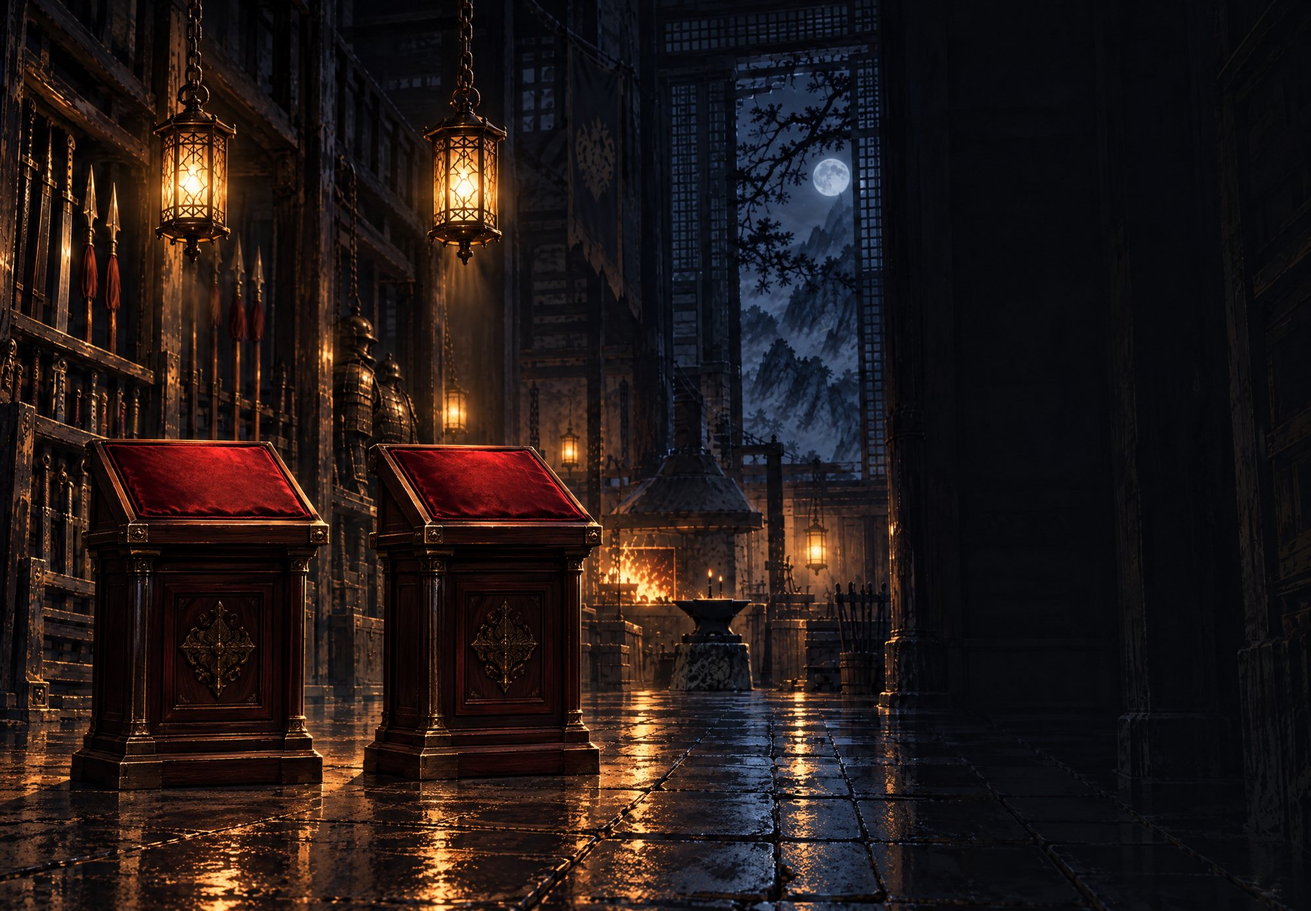
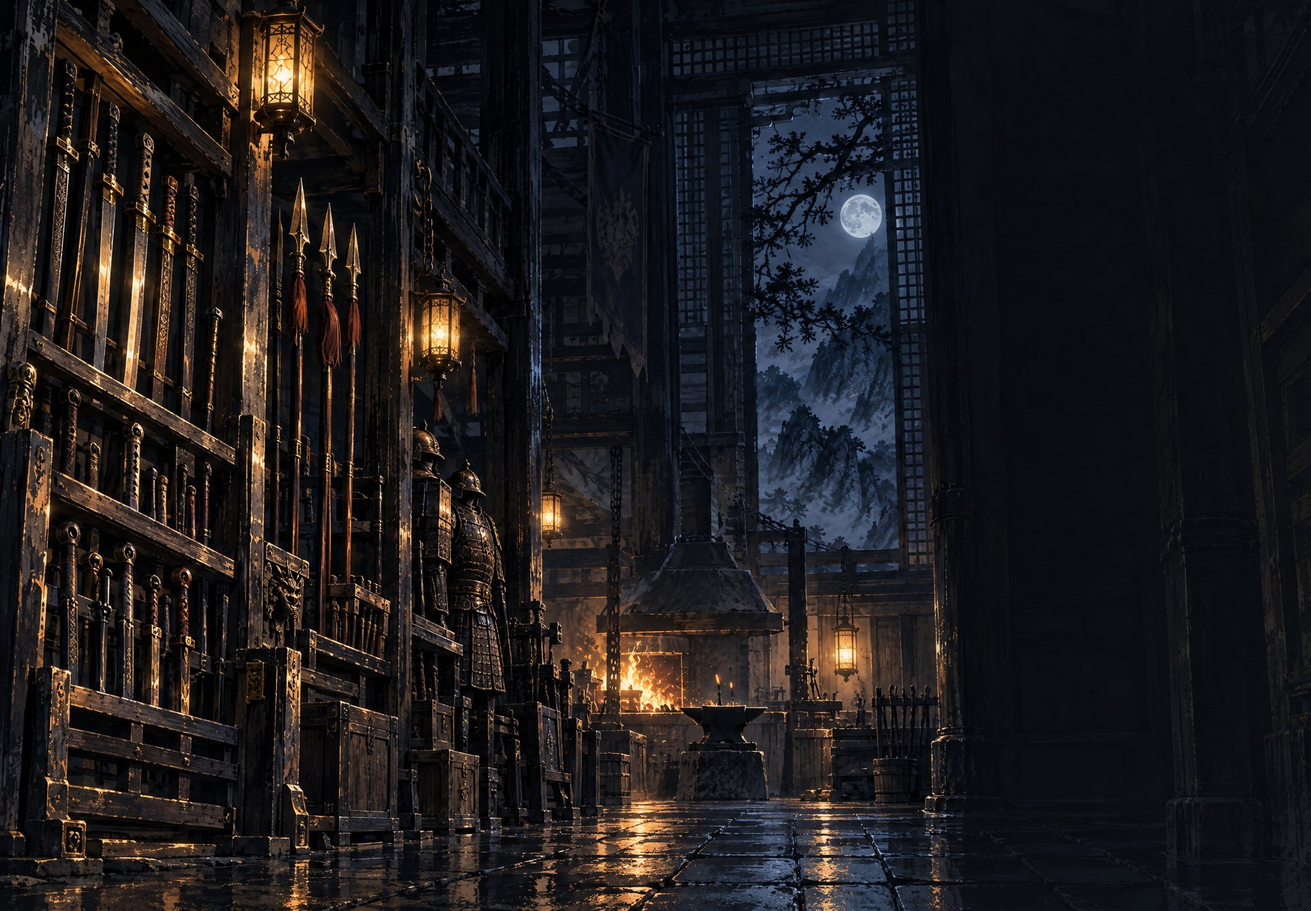
docs(sect-overhaul): 典籍院、天工库退回右侧优化版（左侧不交互）

diff --git a/docs/design/sect-overhaul-prototype.html b/docs/design/sect-overhaul-prototype.html
@@ -198,79 +198,61 @@ button { font: inherit; color: inherit; }
 @keyframes sx-puff { 0% { opacity: 0; transform: translate(0, 0) scale(.5); } 15% { opacity: .8; } 100% { opacity: 0; transform: translate(var(--dx), calc(var(--aw) * -.07)) scale(1.8, 2.4); } }
 
 /* ═══ 典籍院 / 天工库：右侧一列可换之物 + 选中详情 ═══ */
-/* ═══ 典籍院 / 天工库：画中货位（函套书签 / 兵器匣面）可点，右侧只写选中物 ═══ */
-.sx-slot { position: absolute; border: 0; padding: 0; background: none; cursor: default; }
-.sx-slot .lit { position: absolute; inset: 0; opacity: 0; mix-blend-mode: screen; transition: opacity .3s, filter .3s; pointer-events: none; }
-.sx-slot .halo { position: absolute; opacity: 0; pointer-events: none; mix-blend-mode: screen; transition: opacity .3s; }
-.sx-slot .nm { position: absolute; display: flex; flex-direction: column; align-items: center; justify-content: center; gap: .12em; writing-mode: vertical-rl; pointer-events: none;
-  font-family: var(--font-body); font-weight: 700; line-height: 1; letter-spacing: .08em; white-space: nowrap; }
-.sx-slot .nm small { font-size: .62em; letter-spacing: .1em; opacity: .85; }
-.sx-slot.on { cursor: pointer; }
-.sx-slot.on .lit { opacity: .55; } .sx-slot.on .halo { opacity: .35; }
-.sx-slot.on:hover .lit { opacity: .78; } .sx-slot.on:hover .halo { opacity: .6; }
-.sx-slot.sel .lit { opacity: .95; filter: brightness(1.15); } .sx-slot.sel .halo { opacity: 1; }
-.sx-slot.on:focus-visible { outline: 1.5px solid var(--gold); outline-offset: 3px; }
-/* 函套：书签是米色纸，墨字；光只铺在纸签上，柔光晕在整只函套 */
-.sx-slot.book.on .lit { opacity: .85; } .sx-slot.book.on:hover .lit { opacity: .95; } .sx-slot.book.sel .lit { opacity: 1; }
-.sx-slot.book .lit { background: radial-gradient(ellipse 85% 70% at 50% 45%, oklch(0.62 0.09 75 / .8), oklch(0.45 0.07 65 / .55)); }
-.sx-slot.book .halo { inset: -22% -70%; background: radial-gradient(ellipse 50% 50% at 50% 50%, oklch(0.72 0.12 72 / .3), transparent 70%); }
-.sx-slot.book .nm { inset: 4% 0; color: oklch(0.2 0.03 50); text-shadow: 0 0 5px oklch(0.88 0.06 80 / .5); }
-/* 品质色（gongfa.css .qg1–.qg3）；书签上用同色相加深，保证在米色纸签上 ≥4.5:1 */
-.q1 { --qc: oklch(0.72 0.015 85); --qd: oklch(0.24 0.015 85); }
-.q2 { --qc: oklch(0.78 0.09 212); --qd: oklch(0.27 0.07 225); }
-.q3 { --qc: var(--gold); --qd: oklch(0.30 0.09 55); }
-.sx-slot.book .nm { font-family: var(--font-display); font-weight: 400; color: var(--qd); text-shadow: 0 0 4px oklch(0.9 0.04 85 / .55); }
-/* 函套着色：SVG 按函套透视轮廓挖掉纸签，color 混合让画里函套本身变色 */
-.sx-tint { position: absolute; inset: 0; width: 100%; height: 100%; pointer-events: none; mix-blend-mode: color; opacity: .72; }
-.sx-trim { position: absolute; inset: 0; width: 100%; height: 100%; pointer-events: none; mix-blend-mode: screen; }
-/* 天工库：陈列台 + 丝绒垫上的装备道具图 */
-.sx-stand { position: absolute; border: 0; padding: 0; background: none; cursor: default; }
-.sx-stand.on { cursor: pointer; }
-.sx-stand.on:focus-visible { outline: 1.5px solid var(--gold); outline-offset: 3px; }
-.sx-stand.off { pointer-events: none; }
-.sx-padglow { position: absolute; transform: translate(-50%, -50%); pointer-events: none; mix-blend-mode: screen; opacity: 0; transition: opacity .3s; border-radius: 50%;
-  background: radial-gradient(ellipse 50% 50% at 50% 45%, oklch(0.72 0.13 60 / .45), transparent 70%); }
-.sx-padglow.on { opacity: .45; } .sx-padglow.hov { opacity: .75; } .sx-padglow.sel { opacity: 1; }
-.sx-standdim { position: absolute; pointer-events: none; background: radial-gradient(ellipse 60% 55% at 50% 45%, oklch(0.06 0.01 262 / .62), oklch(0.06 0.01 262 / .35) 75%, transparent); }
-/* 物件：外层在屏幕坐标里投影（接触阴影 + 顶上吊灯的暖色边光），内层顺着斜垫旋转压扁 */
-.sx-ware { position: absolute; transform: translate(-50%, -50%); pointer-events: none;
-  filter: drop-shadow(0 calc(var(--aw) * -.0012) calc(var(--aw) * .0006) oklch(0.85 0.12 70 / .55)) drop-shadow(0 calc(var(--aw) * .004) calc(var(--aw) * .003) oklch(0.05 0.02 30 / .8)); }
-.sx-ware img { display: block; width: 100%; height: 100%; object-fit: contain; transform: scaleY(var(--sy)) rotate(var(--rot)) skewY(-4deg);
-  filter: brightness(.95) sepia(.18) saturate(1.05) contrast(1.08); }
-.sx-ware .cs { position: absolute; left: 50%; top: 58%; width: 112%; height: 26%; transform: translate(-50%, -50%) rotate(-5deg); border-radius: 50%;
-  background: radial-gradient(ellipse, oklch(0.08 0.03 25 / .7), transparent 70%); z-index: -1; }
-.sx-plate { position: absolute; transform: translate(-50%, -50%); pointer-events: none; white-space: nowrap; font-family: var(--font-display); font-weight: 700;
-  letter-spacing: .3em; padding-left: .3em; text-shadow: 0 0 6px #000, 0 0 2px #000; }
-.sx-stand-seal { position: absolute; transform: translate(-50%, -50%) rotate(-6deg); pointer-events: none; writing-mode: vertical-rl; font-family: var(--font-display); font-weight: 700;
-  line-height: 1.05; padding: .18em .1em; border-radius: 2px; color: oklch(0.95 0.02 85); background: oklch(0.5 0.17 28 / .9); }
-.sx-stand-seal.pop { animation: sx-stamp2 .55s var(--ease); }
-@keyframes sx-stamp2 { 0% { opacity: 0; transform: translate(-50%, -50%) rotate(-6deg) scale(2.2); } }
-/* 已得：画中落一枚小朱印 */
-.sx-seal { position: absolute; left: 50%; bottom: 3%; transform: translateX(-50%) rotate(-6deg); writing-mode: vertical-rl; pointer-events: none;
-  font-family: var(--font-display); font-weight: 700; line-height: 1.05; letter-spacing: 0; padding: .18em .1em; border-radius: 2px;
-  color: oklch(0.95 0.02 85); background: oklch(0.5 0.17 28 / .9); box-shadow: 0 0 0 1px oklch(0.5 0.17 28 / .5); }
-.sx-slot.own .nm { opacity: .78; }
-.sx-slot.book.own .nm { bottom: 26%; opacity: 1; }
-.sx-seal.pop { animation: sx-stamp .55s var(--ease); }
-@keyframes sx-stamp { 0% { opacity: 0; transform: translateX(-50%) rotate(-6deg) scale(2.2); } 100% { opacity: 1; transform: translateX(-50%) rotate(-6deg) scale(1); } }
-/* 右侧卷宗：细暗金线分节 */
-.sx-rule { height: 1px; margin: 18px 0; background: linear-gradient(to right, oklch(0.75 0.075 76 / .45), oklch(0.75 0.075 76 / .22) 70%, transparent); }
-.sx-attrs { display: grid; grid-template-columns: 1fr 1fr; column-gap: 22px; row-gap: 12px; margin: 0; }
-.sx-attrs .a { display: flex; align-items: baseline; gap: 10px; }
+.sx-list { display: grid; }
+.sx-row { display: flex; align-items: center; gap: 14px; border: 0; background: none; cursor: pointer; padding: 8px 6px 8px 4px; position: relative; text-align: left; color: var(--ink); text-shadow: inherit; opacity: .6; transition: opacity .2s; }
+.sx-row::after { content: ''; position: absolute; left: -4px; right: 0; bottom: 0; height: 3px; background: oklch(0.6 0.02 85 / .22); -webkit-mask: var(--BRUSH) center / 100% 100%; mask: var(--BRUSH) center / 100% 100%; }
+.sx-row svg { width: 26px; height: 26px; flex: none; fill: none; stroke: var(--ink-gold); stroke-width: 1.3; stroke-linecap: round; stroke-linejoin: round; opacity: .8; }
+.sx-row .rn { font-family: var(--font-display); font-size: 17px; letter-spacing: .14em; white-space: nowrap; }
+.sx-row .rp { margin-left: auto; font-size: 12px; letter-spacing: .14em; color: var(--faint); white-space: nowrap; }
+.sx-row .rp b { font-size: 17px; font-weight: 600; letter-spacing: 0; color: var(--ink-gold); margin-right: 4px; }
+.sx-row .rp.own { font-size: 14px; letter-spacing: .3em; color: var(--faint); }
+.sx-row:hover { opacity: .85; }
+.sx-row.on { opacity: 1; background: linear-gradient(to right, oklch(0.78 0.13 78 / .16), oklch(0.78 0.13 78 / .05) 55%, transparent 90%); }
+.sx-row.on svg { opacity: 1; stroke: var(--gold); filter: drop-shadow(0 0 4px oklch(0.78 0.13 78 / .5)); }
+.sx-row.fresh { animation: sx-fresh 1.4s var(--ease); }
+@keyframes sx-fresh { 0% { background: oklch(0.78 0.13 78 / .18); } 100% { background: transparent; } }
+.sx-row:focus-visible { outline: 1.5px solid var(--gold); outline-offset: 2px; }
+.sx-price { display: inline-flex; align-items: baseline; gap: 6px; margin-top: 18px; position: relative; }
+.sx-price b { font-size: 30px; font-weight: 600; color: var(--gold); }
+.sx-price span { font-size: 15px; letter-spacing: .2em; color: var(--muted); }
+.sx-price.short b { color: var(--short); }
+.sx-price.own b { font-size: 20px; letter-spacing: .4em; color: var(--muted); font-weight: 600; }
+/* 列表与详情之间：── ◆ ── */
+.sx-orn { display: flex; align-items: center; gap: 10px; margin: 18px 0 18px; }
+.sx-orn::before, .sx-orn::after { content: ''; flex: 1; height: 1px; }
+.sx-orn::before { background: linear-gradient(to right, transparent, oklch(0.75 0.075 76 / .5)); }
+.sx-orn::after { background: linear-gradient(to left, transparent, oklch(0.75 0.075 76 / .5)); }
+.sx-orn i { width: 7px; height: 7px; transform: rotate(45deg); border: 1px solid oklch(0.75 0.075 76 / .75); position: relative; }
+.sx-orn i::after { content: ''; position: absolute; inset: 1.5px; background: oklch(0.75 0.075 76 / .7); }
+.sx-orn b { width: 3px; height: 3px; transform: rotate(45deg); background: oklch(0.75 0.075 76 / .5); }
+/* 详情卡 */
+.sx-card .nmrow { display: flex; align-items: baseline; gap: 12px; }
+.sx-card h2 { margin: 0; font-family: var(--font-display); font-size: 32px; font-weight: 700; letter-spacing: .16em; line-height: 1.2; white-space: nowrap; }
+.sx-card .gtag { margin-left: auto; flex: none; font-size: 13px; letter-spacing: .14em; color: var(--ink-gold); white-space: nowrap; }
+.sx-chop { display: inline-block; margin-left: 8px; font-family: var(--font-display); font-size: 11px; letter-spacing: .1em; color: oklch(0.95 0.02 85); background: var(--seal-red);
+  padding: 1px 4px; border-radius: 2px; transform: rotate(-4deg) translateY(-2px); text-shadow: none; cursor: help; }
+.sx-attrs { display: grid; grid-template-columns: 1fr 1fr; column-gap: 22px; margin: 14px 0 0; }
+.sx-attrs .a { display: flex; align-items: baseline; gap: 10px; padding: 8px 2px 7px; position: relative; }
+.sx-attrs .a::after { content: ''; position: absolute; left: -4px; right: 0; bottom: 0; height: 3px; background: oklch(0.6 0.02 85 / .26); -webkit-mask: var(--BRUSH) center / 100% 100%; mask: var(--BRUSH) center / 100% 100%; }
 .sx-attrs .a.wide { grid-column: 1 / -1; }
 .sx-attrs dt { font-size: 14px; letter-spacing: .08em; color: var(--faint); white-space: nowrap; }
 .sx-attrs dd { margin: 0; font-size: 18px; font-weight: 600; color: var(--ink); white-space: nowrap; }
 .sx-attrs .a.wide dd { font-size: 16px; }
 .sx-attrs dd[data-tip] { cursor: help; }
 .sx-attrs dd[data-tip]:hover { color: var(--gold); }
-.sx-chop { display: inline-block; font-family: var(--font-display); font-size: 13px; font-weight: 700; letter-spacing: .1em; color: oklch(0.95 0.02 85); background: var(--seal-red);
-  padding: 2px 5px; border-radius: 2px; transform: rotate(-4deg); text-shadow: none; }
-.sx-cost { display: flex; align-items: baseline; gap: 8px; font-size: 15px; letter-spacing: .2em; color: var(--muted); position: relative; }
-.sx-cost b { font-size: 26px; font-weight: 600; letter-spacing: 0; color: var(--gold); }
-.sx-cost.short b { color: var(--short); cursor: help; }
-.sx-cost.own { color: var(--muted); letter-spacing: .5em; font-family: var(--font-display); font-size: 18px; }
 .sx-card .scroll-btn { margin-top: 20px; }
-.sx-own-gap { height: 92px; }
+.sx-own { display: block; width: max-content; margin: 22px auto 0; padding: 7px 16px 7px 22px; font-family: var(--font-display); font-size: 18px; font-weight: 700; letter-spacing: .5em;
+  color: var(--cinnabar); border: 1.5px solid oklch(0.66 0.14 32 / .7); border-radius: 3px; transform: rotate(-4deg); text-shadow: none; opacity: .85; }
+.sx-own-gap { height: 74px; display: flex; align-items: center; }
+/* 货多（地位高）时收紧行距，按钮不压到底边 */
+.sx-insc.dense .sx-row { padding: 4px 6px 4px 4px; }
+.sx-insc.dense .sx-row svg { width: 22px; height: 22px; }
+.sx-insc.dense .sx-orn { margin: 12px 0 12px; }
+.sx-insc.dense .sx-card h2 { font-size: 28px; }
+.sx-insc.dense .sx-desc { margin-top: 8px; line-height: 1.7; }
+.sx-insc.dense .sx-attrs { margin-top: 8px; }
+.sx-insc.dense .sx-attrs .a { padding: 5px 2px 4px; }
+.sx-insc.dense .scroll-btn { margin-top: 14px; height: 62px; }
 
 /* 操作反馈：浮在对象旁 */
 .sx-float { position: absolute; transform: translate(-50%, -50%); pointer-events: none; white-space: nowrap; z-index: 8; font-family: var(--font-display); font-size: 20px; font-weight: 700; letter-spacing: .2em;
@@ -347,10 +329,9 @@ button { font: inherit; color: inherit; }
   </section>
 
   <!-- 典籍院 / 天工库（同一格局，换底图与货） -->
-  <section class="sx-view" id="vShop" data-img="hall-dianji.jpg" data-over="1" data-anchor="0" data-dark=".73" data-vy=".6" data-tmin="252">
+  <section class="sx-view" id="vShop" data-img="hall-dianji.jpg" data-over="1.18" data-anchor="1" data-dark=".73">
     <div class="sx-art">
       <div class="sx-pic"><div class="img"></div><div class="tone"></div><div class="vig"></div></div>
-      <div id="slots"></div>
     </div>
     <div class="sx-shade"><div class="sx-paper"></div></div>
     <header class="sx-head">
@@ -390,47 +371,28 @@ const GATES = [
    装备 = engine/gear.ts rollBase：兵器重型 攻击 = 0.036 × 100 × 1.7^(当量−1) × GRADE_BASE × 1.08（浮动取中值 1.0）；词条取区间中值 × GRADE_AFFIX
    价格是占位 */
 const GRADE_COLOR = { 上乘: 'oklch(0.78 0.09 215)', 极品: 'oklch(0.72 0.16 50)' };
-const NG_TIP = { qi: '真气上限倍率', hh: '每重火候折合境界的倍率' };
-const ROUTE_TIP = { 狂澜: '快剑爆发 · 短战最强', 惊鸿: '身法奇快 · 一招多击' };
-/* 货位坐标（占画幅 %）
-   典籍院：s = 书签纸面 [左, 上, 宽, 高]，书名写在这里
-   天工库：s = 匣面 [左, 上, 宽, 高]（点选范围），n = 名字区 [上, 高]（匣面中上部、门环之上），t = 匣下小木牌 [左, 上, 宽, 高] */
 const SHOPS = {
-  dianji: { title: '典籍院', img: 'hall-dianji.jpg', kind: 'book', slots: [
-    // s = 书签纸面 [左, 上, 宽, 高]（%）；f = 函套正面含书脊的四角（原图像素，左上→右上→右下→左下）
-    { s: [6.65, 15.7, 3.45, 15.7], f: [[62, 182], [225, 198], [222, 560], [60, 553]] },
-    { s: [15.25, 17.8, 3.05, 15.25], f: [[240, 210], [385, 225], [385, 575], [240, 566]] },
-    { s: [23.05, 19.6, 2.9, 15.1], f: [[402, 242], [540, 255], [540, 590], [402, 585]] },
-    { s: [30.55, 21.6, 2.7, 14.4], f: [[558, 268], [685, 282], [685, 618], [558, 610]] },
-    { s: [6.25, 49.1, 3.6, 16.0], f: [[55, 650], [218, 662], [215, 1025], [55, 1015]] },
-    { s: [14.95, 50.4, 3.2, 15.8], f: [[235, 665], [383, 675], [383, 1035], [235, 1025]] },
-    { s: [22.95, 51.6, 2.95, 16.0], f: [[400, 685], [540, 695], [540, 1045], [400, 1040]] },
-    { s: [30.55, 53.0, 2.8, 15.5], f: [[558, 705], [685, 715], [685, 1055], [558, 1050]] } ],
-    items: [
-    { q: 1, n: '疾雨剑法', g: '寻常 · 剑法', p: 300, lv: 1, desc: '檐声急雨，剑影疏灯。',
+  dianji: { title: '典籍院', img: 'hall-dianji.jpg', items: [
+    { n: '疾雨剑法', g: '寻常 · 剑法', ic: 'sword', p: 300, lv: 1, desc: '檐声急雨，剑影疏灯。',
       at: [['伤害倍率', '×148%'], ['触发几率', '12%'], ['真气消耗', '190'], ['附加特效', '连击', '第一式 44% 追加一次普攻']] },
-    { q: 1, n: '百川诀', g: '入门 · 内功', ng: true, p: 0, lv: 1, desc: '纳百川入丹田，涓滴汇海，久久自成气象。', route: '狂澜',
-      at: [['气海', '×1.0', NG_TIP.qi], ['火候', '×1.00', NG_TIP.hh]] },
-    { q: 2, n: '惊鸿照影剑', sub: '残页', g: '上乘 · 剑法残页', p: 600, lv: 2, desc: '惊鸿曾照影，剑过不留痕。',
+    { n: '百川诀', g: '入门 · 内功', ic: 'book', p: 0, lv: 1, desc: '纳百川入丹田，涓滴汇海，久久自成气象。',
+      at: [['气海', '×1.0', '真气上限倍率'], ['火候', '×1.00', '每重折合境界的倍率'], ['会心率', '+10%', '狂澜一路'], ['会心伤害', '+20%', '狂澜一路']] },
+    { n: '惊鸿照影剑 · 残页', t: '惊鸿照影剑', g: '上乘 · 剑法残页', ic: 'leaf', p: 600, lv: 2, desc: '惊鸿曾照影，剑过不留痕。',
       at: [['伤害倍率', '×190%'], ['触发几率', '9%'], ['真气消耗', '400'], ['附加特效', '回气', '第一式返还耗气 50%']] },
-    { q: 2, n: '沧海功', g: '进阶 · 内功', p: 1800, lv: 3, ng: true, desc: '气如沧海潮生，一呼一吸之间，有吞吐浪涛之势。', route: '狂澜',
-      at: [['气海', '×1.1', NG_TIP.qi], ['火候', '×1.02', NG_TIP.hh]] },
-    { q: 2, n: '飞泉诀', g: '进阶 · 内功', p: 1800, lv: 3, ng: true, desc: '借山间飞泉之意，气走如瀑，一落未尽，一落又起。', route: '惊鸿',
-      at: [['气海', '×1.1', NG_TIP.qi], ['火候', '×1.02', NG_TIP.hh]] },
-    { q: 3, n: '苍崖九叠剑', sub: '残页', g: '绝学 · 剑法残页', p: 2400, lv: 4, desc: '苍崖云九叠，孤剑雪千秋。',
+    { n: '沧海功', g: '进阶 · 内功', ic: 'book', p: 1800, lv: 3, desc: '气如沧海潮生，一呼一吸之间，有吞吐浪涛之势。',
+      at: [['气海', '×1.1', '真气上限倍率'], ['火候', '×1.02', '每重折合境界的倍率'], ['会心率', '+10%', '狂澜一路'], ['会心伤害', '+20%', '狂澜一路']] },
+    { n: '飞泉诀', g: '进阶 · 内功', chop: '惊鸿', ic: 'book', p: 1800, lv: 3, desc: '借山间飞泉之意，气走如瀑，一落未尽，一落又起。',
+      at: [['气海', '×1.1', '真气上限倍率'], ['火候', '×1.02', '每重折合境界的倍率'], ['追加几率', '30%', '每次出手后追加一击'], ['追加倍率', '65%', '追加一击的伤害']] },
+    { n: '苍崖九叠剑 · 残页', t: '苍崖九叠剑', g: '绝学 · 剑法残页', ic: 'leaf', p: 2400, lv: 4, desc: '苍崖云九叠，孤剑雪千秋。',
       at: [['伤害倍率', '×236%'], ['触发几率', '3%'], ['真气消耗', '550'], ['附加特效', '必暴', '第一式必定会心 · 会心伤害 +5%']] },
-    { q: 3, n: '落星沉海剑', sub: '残页', g: '绝学 · 剑法残页', p: 2400, lv: 4, desc: '星垂沧海夜，剑落暮潮寒。',
+    { n: '落星沉海剑 · 残页', t: '落星沉海剑', g: '绝学 · 剑法残页', ic: 'leaf', p: 2400, lv: 4, desc: '星垂沧海夜，剑落暮潮寒。',
       at: [['伤害倍率', '×236%'], ['触发几率', '5%'], ['真气消耗', '550'], ['附加特效', '蓄势', '本场每出过一招，本式倍率 +10%']] },
-    { q: 3, n: '沧溟真经', g: '镇派 · 内功', p: 6000, lv: 5, ng: true, desc: '苍崖历代掌门心血所凝，修到深处，内息如沧溟无底。', route: '狂澜',
-      at: [['气海', '×1.2', NG_TIP.qi], ['火候', '×1.04', NG_TIP.hh]] } ] },
-  tiangong: { title: '天工库', img: 'hall-tiangong.jpg', kind: 'stand', slots: [
-    // pad = 丝绒垫中心 [x, y]（%）、len = 物件长（占画幅宽）；st = 整座陈列台（点选范围）；nm = 台前名牌；sl = 已得朱印
-    { pad: [15.4, 52.4], len: 14, st: [5.5, 48.2, 19.5, 38.2], nm: [15.9, 62.0], sl: [16.5, 71.2] },
-    { pad: [36.6, 52.8], len: 14, st: [27.75, 48.5, 18, 37.3], nm: [37.0, 62.0], sl: [38.5, 70.9] } ],
-    items: [
-    { n: '松纹剑', g: '兵器 · 剑', grade: '上乘', img: 'jian-qingfeng.png', p: 900, lv: 2, desc: '采苍崖后山寒铁所铸，剑身隐有古松纹理。',
+    { n: '沧溟真经', g: '镇派 · 内功', ic: 'book', p: 6000, lv: 5, desc: '苍崖历代掌门心血所凝，修到深处，内息如沧溟无底。',
+      at: [['气海', '×1.2', '真气上限倍率'], ['火候', '×1.04', '每重折合境界的倍率'], ['会心率', '+10%', '狂澜一路'], ['会心伤害', '+20%', '狂澜一路']] } ] },
+  tiangong: { title: '天工库', img: 'hall-tiangong.jpg', items: [
+    { n: '松纹剑', g: '兵器 · 剑', grade: '上乘', ic: 'blade', p: 900, lv: 2, desc: '采苍崖后山寒铁所铸，剑身隐有古松纹理。',
       at: [['攻击', '17'], ['品阶', '上乘'], ['词条', '攻击 +2% · 会心率 +1%', null, true]] },
-    { n: '听涛剑', g: '兵器 · 剑', grade: '极品', img: 'jian-longquan.png', p: 4800, lv: 5, desc: '剑成之日置于崖顶七夜，挥动时隐有松涛之声。',
+    { n: '听涛剑', g: '兵器 · 剑', grade: '极品', ic: 'blade', p: 4800, lv: 5, desc: '剑成之日置于崖顶七夜，挥动时隐有松涛之声。',
       at: [['攻击', '76'], ['品阶', '极品'], ['词条', '攻击 +2% · 会心伤害 +2%', null, true]] } ] },
 };
 const LORE = {
@@ -442,6 +404,12 @@ const LORE = {
   赴论剑会: '江湖诸派齐聚论剑，代本门登台，胜负关乎苍崖声名。',
 };
 const PAPER = '剑者心之器也藏锋于鞘不露其芒苍崖之上云起九叠孤松立雪寒泉漱石门中弟子晨起洒扫暮而习剑寒暑不辍凡入门者先修其心后习其技心正则剑正心乱则剑乱古之剑客重诺轻生一言既出千金不易';
+const ICON = {
+  sword: '<svg viewBox="0 0 26 26"><path d="M21.5 4.5 9 17"/><path d="M21.5 4.5 20 9.5 10.5 19 7 15.5 16.5 6Z"/><path d="M6 14.5 11.5 20M8 18l-3.5 3.5"/></svg>',
+  blade: '<svg viewBox="0 0 26 26"><path d="M13 2.5v15"/><path d="M11 4.5 13 2.5l2 2v13h-4Z"/><path d="M8.5 17.5h9M13 17.5v5.5"/><circle cx="13" cy="23.5" r=".8"/></svg>',
+  book: '<svg viewBox="0 0 26 26"><path d="M6 4.5h12.5v17H6Z"/><path d="M8.5 4.5v17"/><path d="M11.5 8h4.5v6.5h-4.5Z"/><path d="M6 8H4.8M6 13H4.8M6 18H4.8"/></svg>',
+  leaf: '<svg viewBox="0 0 26 26"><path d="M7 4.5h9.5l3 3V21H7Z"/><path d="M16.5 4.5v3h3"/><path d="M10 10.5h6M10 13.5h6M10 16.5h3.5"/><path d="M19.5 15.5 17 18l2.5 1.5"/></svg>',
+};
 
 let S = { rank: 3, bal: 860, rich: false, view: 'map', shop: 'dianji', sel: 3, dur: 2, run: null, pick: {}, owned: new Set(['百川诀']), seen: new Set(['hall', 'dianji', 'tiangong']), fresh: new Set() };
 const RUN_MOCK = () => ({ tier: 3, dur: 2, start: Date.now() - 37 * 60e3 });
@@ -456,13 +424,13 @@ function place() {
   document.querySelectorAll('.sx-view').forEach(v => {
     const over = +v.dataset.over, anc = +v.dataset.anchor;
     const aw = Math.max(W, Math.min(W * over, H * R)), ah = aw / R;
-    const ax = (W - aw) * anc, ay = ah > H ? (H - ah) * 0.45 : (H - ah) * (+v.dataset.vy || 0);
+    const ax = (W - aw) * anc, ay = ah > H ? (H - ah) * 0.45 : 0;
     const a = v.querySelector('.sx-art');
     a.style.setProperty('--aw', `${aw}px`); a.style.setProperty('--ah', `${ah}px`);
     a.style.setProperty('--ax', `${ax}px`); a.style.setProperty('--ay', `${ay}px`);
     // 题跋落在画右侧约 35% 的暗区；暗区窄时题跋收窄，压暗层跟着加宽
     const darkL = ax + aw * (+v.dataset.dark || 0.68);
-    const tw = Math.max(+v.dataset.tmin || 272, Math.min(330, W - 40 - darkL));
+    const tw = Math.max(272, Math.min(330, W - 40 - darkL));
     v.style.setProperty('--tw', `${tw}px`);
     v.style.setProperty('--sw', `${Math.min(62, (tw + 150) / W * 100)}%`);
     v.style.setProperty('--ty', `${Math.max(96, Math.min(H * 0.15, 150))}px`);
@@ -553,85 +521,39 @@ function floatTab(lv, text, cls = '') {
 }
 
 /* ───────── 典籍院 / 天工库 ───────── */
-/* 典籍院：函套着色（武学麻布灰褐 / 绛紫 / 朱红描金，内功蓝 / 青 / 金，取自 gongfa.css 书封与 book-q1–q3.png 实测色）+ 书签竖写书名 */
-const BOOK_TINT = { wx1: 'rgb(118 96 70)', wx2: 'rgb(112 62 128)', wx3: 'rgb(196 70 38)', ng1: 'rgb(52 82 128)', ng2: 'rgb(70 136 128)', ng3: 'rgb(176 128 48)' };
-function drawBooks(sh, pick, owned) {
-  let tint = '', trim = '', html = '';
-  sh.slots.forEach((sl, i) => {
-    const it = sh.items[i], on = it && it.lv <= S.rank, [l, t, w, h] = sl.s;
-    if (on) {
-      const pts = sl.f.map(([x, y]) => `${x},${y}`).join(' L');
-      const sx = l * 20, sy = t * 13.9, sw = w * 20, shh = h * 13.9;
-      // 外框四角 + 反向的纸签矩形，evenodd 挖空纸签，题签保持米黄
-      tint += `<path fill-rule="evenodd" fill="${BOOK_TINT[(it.ng ? 'ng' : 'wx') + it.q]}" d="M${pts} Z M${sx},${sy} L${sx},${sy + shh} L${sx + sw},${sy + shh} L${sx + sw},${sy} Z"/>`;
-      if (!it.ng && it.q === 3) trim += `<path fill="none" stroke="rgb(150 110 40)" stroke-width="3" d="M${pts} Z"/><rect x="${sx - 4}" y="${sy - 4}" width="${sw + 8}" height="${shh + 8}" fill="none" stroke="rgb(170 125 45)" stroke-width="2"/>`;
-    }
-    const sel = on && it.n === pick, own = on && owned(it);
-    const chars = on ? it.n.length : 3;
-    const fs = `min(calc(var(--aw) * ${(w / 100 / (it && it.sub ? 1.75 : 1.6)).toFixed(4)}), calc(var(--ah) * ${(h / 100 / (chars + (it && it.sub ? 0.6 : 0.8))).toFixed(4)}))`;
-    const nm = on ? `<span class="nm" style="font-size:${fs}">${it.n}${it.sub ? `<small>${it.sub}</small>` : ''}</span>` : '';
-    const seal = own ? `<span class="sx-seal${S.fresh.has(it.n) ? ' pop' : ''}" style="font-size:calc(var(--aw) * ${(w / 100 * .36).toFixed(4)})">已得</span>` : '';
-    html += `<button class="sx-slot book${on ? ` on q${it.q}` : ''}${sel ? ' sel' : ''}${own ? ' own' : ''}" ${on ? `data-n="${it.n}"` : 'tabindex="-1" aria-hidden="true"'}
-      style="left:${l}%;top:${t}%;width:${w}%;height:${h}%"><span class="halo"></span><span class="lit"></span>${nm}${seal}</button>`;
-  });
-  return `<svg class="sx-tint" viewBox="0 0 2000 1390" preserveAspectRatio="none">${tint}</svg>`
-    + `<svg class="sx-trim" viewBox="0 0 2000 1390" preserveAspectRatio="none" style="opacity:.55">${trim}</svg>` + html;
-}
-/* 天工库：两座陈列台，装备道具图（code/public/art/gear）顺着斜垫摆放 */
-const GEAR_ART = '../../code/public/art/gear/';
-function drawStands(sh, pick, owned) {
-  return sh.slots.map((sl, i) => {
-    const it = sh.items[i], on = it && it.lv <= S.rank, sel = on && it.n === pick, own = on && owned(it);
-    const [l, t, w, h] = sl.st, [px, py] = sl.pad;
-    const glow = `<span class="sx-padglow${on ? ' on' : ''}${sel ? ' sel' : ''}" ${on ? `data-for="${it.n}"` : ''} style="left:${px}%;top:${py}%;width:${sl.len * 1.6}%;height:${sl.len * 1.1 * R}%"></span>`;
-    if (!on) return `<span class="sx-standdim" style="left:${l}%;top:${t - 3}%;width:${w}%;height:${h + 3}%"></span>`;
-    // 道具图 199×320 竖放，剑尖朝上；旋转 72° 横躺、纵向压扁 0.55 贴合斜垫透视
-    const ware = `<span class="sx-ware" style="left:${px}%;top:${py}%;width:${(sl.len * 199 / 320).toFixed(2)}%;height:${(sl.len * R).toFixed(2)}%;--rot:74deg;--sy:.62"><i class="cs"></i><img src="${GEAR_ART}${it.img}" alt=""></span>`;
-    const plate = `<span class="sx-plate" style="left:${sl.nm[0]}%;top:${sl.nm[1]}%;font-size:calc(var(--aw) * .0135);color:${GRADE_COLOR[it.grade]}">${it.n}</span>`;
-    const seal = own ? `<span class="sx-stand-seal${S.fresh.has(it.n) ? ' pop' : ''}" style="left:${sl.sl[0]}%;top:${sl.sl[1]}%;font-size:calc(var(--aw) * .011)">已得</span>` : '';
-    return glow + ware + plate + seal + `<button class="sx-stand on${sel ? ' sel' : ''}" data-n="${it.n}" aria-label="${it.n}" style="left:${l}%;top:${t}%;width:${w}%;height:${h}%"></button>`;
-  }).join('');
-}
-
 function drawShop() {
-  const sh = SHOPS[S.shop], k = sh.kind;
+  const sh = SHOPS[S.shop], items = sh.items.filter(it => it.lv <= S.rank);
   const owned = it => S.owned.has(it.n);
-  const open = sh.items.filter(it => it.lv <= S.rank);
   let pick = S.pick[S.shop];
-  if (!open.find(it => it.n === pick)) pick = (open.find(it => !owned(it)) || open[0]).n;
+  if (!items.find(it => it.n === pick)) pick = (items.find(it => !owned(it)) || items[0]).n;
   S.pick[S.shop] = pick;
-  // 画中货位：按货架顺序装条目，未解锁 / 空位留白不亮
-  $('slots').innerHTML = k === 'book' ? drawBooks(sh, pick, owned) : drawStands(sh, pick, owned);
-  $('slots').querySelectorAll('[data-n]').forEach(b => {
-    b.onclick = () => { S.pick[S.shop] = b.dataset.n; drawShop(); };
-    const g = $('slots').querySelector(`.sx-padglow[data-for="${b.dataset.n}"]`);
-    if (g) { b.onmouseenter = () => g.classList.add('hov'); b.onmouseleave = () => g.classList.remove('hov'); }
-  });
-  // 右侧卷宗：只写选中物
-  const it = open.find(x => x.n === pick), own = owned(it), short = !own && S.bal < it.p;
-  const title = it.n;
-  const attrs = it.at.map(([a, v, tip, wide]) => `<div class="a${wide ? ' wide' : ''}"><dt>${a}</dt><dd${tip ? ` data-tip="${tip}"` : ''}>${v}</dd></div>`).join('')
-    + (it.route ? `<div class="a"><dt>源流</dt><dd data-tip="${ROUTE_TIP[it.route]}"><span class="sx-chop">${it.route}</span></dd></div>` : '');
-  $('shopInsc').innerHTML = `<div class="sx-card">
-      <h2 class="sx-big${it.q ? ` q${it.q}` : ''}" style="white-space:nowrap;font-size:${title.length > 4 ? 30 : 40}px;color:${it.grade ? GRADE_COLOR[it.grade] : 'var(--qc)'}">${title}${it.sub ? `<small style="font-size:.55em;letter-spacing:.2em;margin-left:.4em;color:var(--muted)">${it.sub}</small>` : ''}</h2>
-      <div class="sx-tag">〔${it.g}〕</div>
+  const it = items.find(x => x.n === pick), own = owned(it), short = !own && S.bal < it.p;
+  const gc = x => x.grade ? ` style="color:${GRADE_COLOR[x.grade]}"` : '';
+  const title = it.t || it.n;
+  $('shopInsc').classList.toggle('dense', items.length > 6);
+  $('shopInsc').innerHTML = `<div class="sx-list">${items.map(x => `<button class="sx-row${x.n === pick ? ' on' : ''}${S.fresh.has(x.n) ? ' fresh' : ''}" data-n="${x.n}">${ICON[x.ic]}<span class="rn"${gc(x)}>${x.n}</span>${
+      owned(x) ? '<span class="rp own">已得</span>' : `<span class="rp"><b>${x.p}</b>贡献</span>`}</button>`).join('')}</div>
+    <div class="sx-orn"><b></b><i></i><b></b></div>
+    <div class="sx-card">
+      <div class="nmrow"><h2 style="font-size:${title.length > 4 ? 28 : 32}px${it.grade ? `;color:${GRADE_COLOR[it.grade]}` : ''}">${title}</h2>
+        <span class="gtag">${it.g}${it.chop ? `<span class="sx-chop" data-tip="兼修惊鸿一路">${it.chop}</span>` : ''}</span></div>
       <p class="sx-desc">${it.desc}</p>
-      <div class="sx-rule"></div>
-      <dl class="sx-attrs">${attrs}</dl>
-      <div class="sx-rule"></div>
-      ${own ? '<div class="sx-cost own">已得</div><div class="sx-own-gap"></div>'
-        : `<div class="sx-cost${short ? ' short' : ''}" id="cost">需<b ${short ? `data-tip="还差 ${it.p - S.bal} 贡献"` : ''}>${it.p}</b>贡献</div>
-           <button class="scroll-btn" id="buy" ${short ? `aria-disabled="true" data-tip="还差 ${it.p - S.bal} 贡献"` : ''}>兑换</button>`}
+      <dl class="sx-attrs">${it.at.map(([k, v, tip, wide]) => `<div class="a${wide ? ' wide' : ''}"><dt>${k}</dt><dd${tip ? ` data-tip="${tip}"` : ''}>${v}</dd></div>`).join('')}</dl>
+      ${own ? '<div class="sx-own-gap"><span class="sx-own">已得</span></div>'
+        : `<button class="scroll-btn" id="buy" ${short ? `aria-disabled="true" data-tip="还差 ${it.p - S.bal} 贡献"` : ''}>兑换</button>`}
     </div>`;
   S.fresh.clear();
+  $('shopInsc').querySelectorAll('.sx-row').forEach(b => b.onclick = () => { S.pick[S.shop] = b.dataset.n; drawShop(); });
+  const rowPrice = $('shopInsc').querySelector('.sx-row.on .rp');
+  if (short && rowPrice) rowPrice.querySelector('b').style.color = 'var(--short)';
   const buy = $('buy');
   if (buy) buy.onclick = () => {
     if (short) return;
-    const pr = $('cost').querySelector('b').getBoundingClientRect(), box = $('vShop').getBoundingClientRect();
+    const pr = rowPrice.getBoundingClientRect(), box = $('vShop').getBoundingClientRect();
     S.bal -= it.p; S.owned.add(it.n); S.fresh.add(it.n);
     drawShop(); drawStand();
     const f = document.createElement('div'); f.className = 'sx-float num'; f.textContent = `−${it.p}`;
-    f.style.left = `${pr.left - box.left + pr.width / 2}px`; f.style.top = `${pr.top - box.top}px`;
+    f.style.left = `${pr.left - box.left + pr.width / 2}px`; f.style.top = `${pr.top - box.top - 4}px`;
     $('vShop').appendChild(f); setTimeout(() => f.remove(), 1800);
   };
   bindTips($('shopInsc'));
